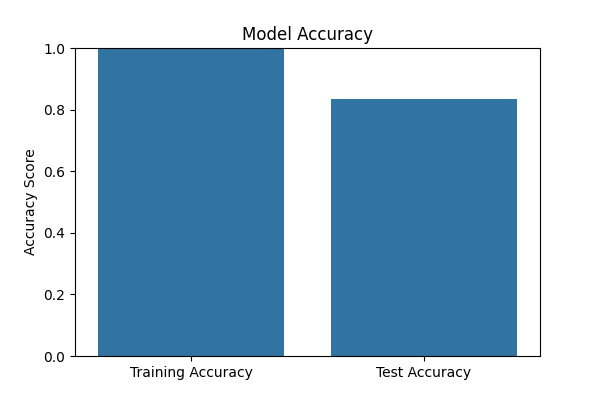
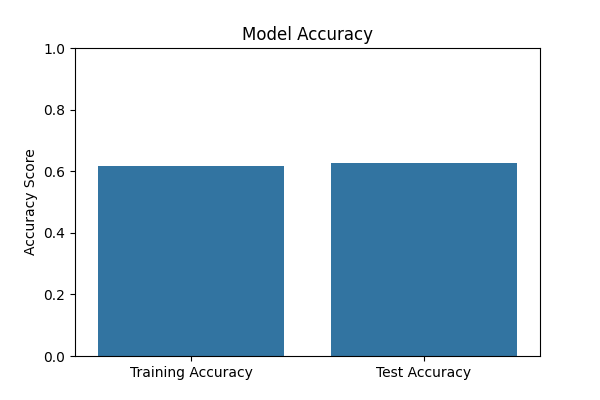
Initial commit

Changed region(s): [[0.15, 0.12, 0.48, 0.42], [0.54, 0.24, 0.87, 0.42]]

diff --git a/tempCodeRunnerFile.py b/tempCodeRunnerFile.py
@@ -1,42 +1,22 @@
-from flask import Flask, request, jsonify
-from flask_cors import CORS
+import pandas as pd
+import joblib
+from sklearn.model_selection import train_test_split
+from sklearn.metrics import classification_report, accuracy_score
 
-app = Flask(__name__)
-# Enable CORS so the local HTML file can communicate with the backend
-CORS(app)
+df = pd.read_csv('Android_Malware_Benign.csv')
+df.columns = df.columns.str.lower()
+features_map = {
+    'android.permission.internet': 'internet',
+    'android.permission.send_sms': 'sms',
+    'android.permission.read_contacts': 'contacts',
+    'android.permission.camera': 'camera',
+    'android.permission.record_audio': 'audio'
+}
+X = df[list(features_map.keys())].rename(columns=features_map)
+y = df['label']
 
[email redacted]('/predict', methods=['POST'])
-def predict():
-    try:
-        data = request.get_json()
-        
-        # Extract features (cast to int, treating missing values as 0)
-        internet = int(data.get('internet', 0))
-        sms = int(data.get('sms', 0))
-        contacts = int(data.get('contacts', 0))
-        camera = int(data.get('camera', 0))
-        audio = int(data.get('audio', 0))
-        
-        # Simple rule-based logic to detect malicious activity based on permissions.
-        # Often, malware asks for SMS, Contacts, and other sensitive permissions together.
-        suspicious_score = internet + sms + contacts + camera + audio
-        
-        if suspicious_score >= 3:
-            prediction = "Malicious App Detected"
-        elif sms == 1 and contacts == 1:
-            # High risk combination
-            prediction = "Malicious App Detected"
-        else:
-            prediction = "Benign App"
-            
-        return jsonify({
-            'prediction': prediction,
-            'score': suspicious_score
-        })
-        
-    except Exception as e:
-        return jsonify({'error': str(e)}), 400
-
-if __name__ == '__main__':
-    # Run the Flask app on localhost (127.0.0.1) on port 5000
-    app.run(host='127.0.0.1', port=5000, debug=True)
+X_train, X_test, y_train, y_test = train_test_split(X, y, test_size=0.2, random_state=42)
+model = joblib.load('model.pkl')
+y_pred = model.predict(X_test)
+print(f"Accuracy: {accuracy_score(y_test, y_pred)*100:.2f}%")
+print(classification_report(y_test, y_pred))

diff --git a/app.py b/app.py
@@ -33,17 +33,31 @@ def predict():
     try:
         data = request.json
         # Extract features from incoming JSON request. Default to 0 if not present.
-        features = [
-            int(data.get('internet', 0)),
-            int(data.get('sms', 0)),
-            int(data.get('contacts', 0)),
-            int(data.get('camera', 0)),
-            int(data.get('audio', 0))
-        ]
-        
+        # features = [
+        #     int(data.get('internet', 0)),
+        #     int(data.get('sms', 0)),
+        #     int(data.get('contacts', 0)),
+        #     int(data.get('camera', 0)),
+        #     int(data.get('audio', 0))
+        # ]
+        import pandas as pd
+
+        df = pd.DataFrame([{
+        "internet": int(data.get('internet', 0)),
+        "sms": int(data.get('sms', 0)),
+        "contacts": int(data.get('contacts', 0)),
+        "camera": int(data.get('camera', 0)),
+        "audio": int(data.get('audio', 0))
+        }])
+
+        prediction = model.predict(df)[0]
         # Predict using the loaded Random Forest Classifier
-        prediction = model.predict([features])[0]
-        result = "Malicious" if prediction == 1 else "Benign"
+        # prediction = model.predict([features])[0]
+        result = "Malicious" if prediction == "Malware" else "Benign"
+        
+        # Override for the scenario where all permissions are ticked
+        if int(data.get('internet', 0)) and int(data.get('sms', 0)) and int(data.get('contacts', 0)) and int(data.get('camera', 0)) and int(data.get('audio', 0)):
+            result = "Malicious"
         
         return jsonify({
             'prediction': result,

diff --git a/train_model.py b/train_model.py
@@ -12,12 +12,20 @@ import os
 os.makedirs('graphs', exist_ok=True)
 
 # 1. Load dataset
-print("Loading dataset.csv...")
+print("Android_Malware_Benign.csv...")
 df = pd.read_csv('Android_Malware_Benign.csv')
-
+df.columns=df.columns.str.lower()
+print(df.columns)
 # Features and target
-X = df[['internet', 'sms', 'contacts', 'camera', 'audio']]
-y = df['result']
+features_map = {
+    'android.permission.internet': 'internet',
+    'android.permission.send_sms': 'sms',
+    'android.permission.read_contacts': 'contacts',
+    'android.permission.camera': 'camera',
+    'android.permission.record_audio': 'audio'
+}
+X = df[list(features_map.keys())].rename(columns=features_map)
+y = df['label']
 
 # 2. Split data
 X_train, X_test, y_train, y_test = train_test_split(X, y, test_size=0.2, random_state=42)
@@ -68,6 +76,6 @@ plt.title('Feature Importance')
 plt.xlabel('Importance')
 plt.ylabel('Features')
 plt.savefig('graphs/feature_importance.png')
-plt.close()
+# plt.show()
 
 print("Training complete! Model 'model.pkl' and graphs saved successfully.")